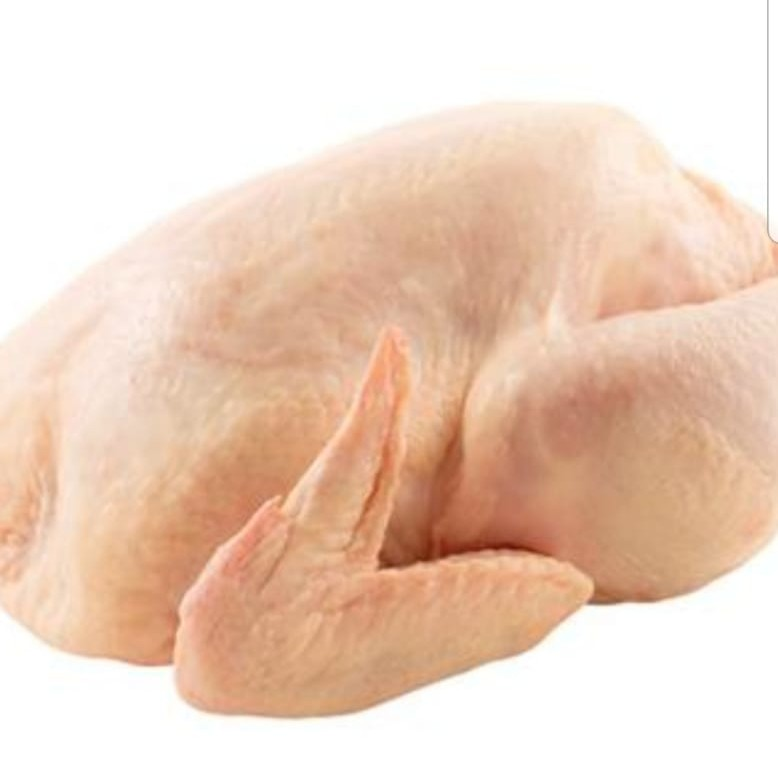
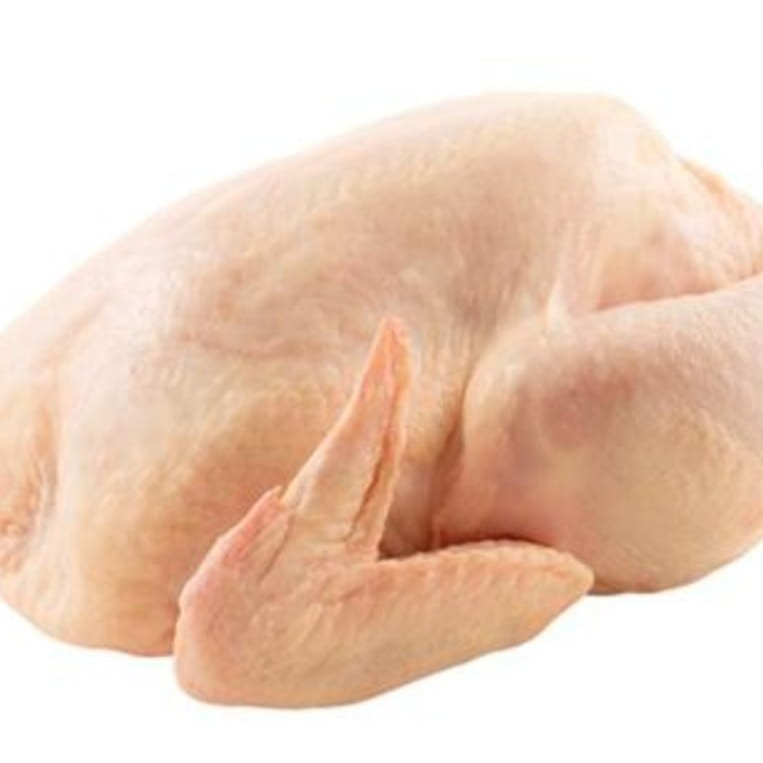
Price update

diff --git a/index.html b/index.html
@@ -156,7 +156,7 @@
               </div>
 
               <div class="flex items-center justify-between mt-3 w-full">
-                <p class="font-bold text-lg text-zinc-800">R$ 60,00</p>
+                <p class="font-bold text-lg text-zinc-800">R$ 65,00</p>
               </div>
             </div>
           </div>
@@ -433,7 +433,7 @@
               </div>
 
               <div class="flex items-center justify-between mt-3 w-full">
-                <p class="font-bold text-lg text-zinc-800">R$ 25,00</p>
+                <p class="font-bold text-lg text-zinc-800">R$ 26,00</p>
                 <!-- <button class="bg-gray-900 px-5 rounded add-to-cart-btn" data-name="Pão de Queijo" data-price="25">
                   <i class="fa fa-cart-plus text-lg text-[#f0f3fd]"></i>
                 </button> -->
